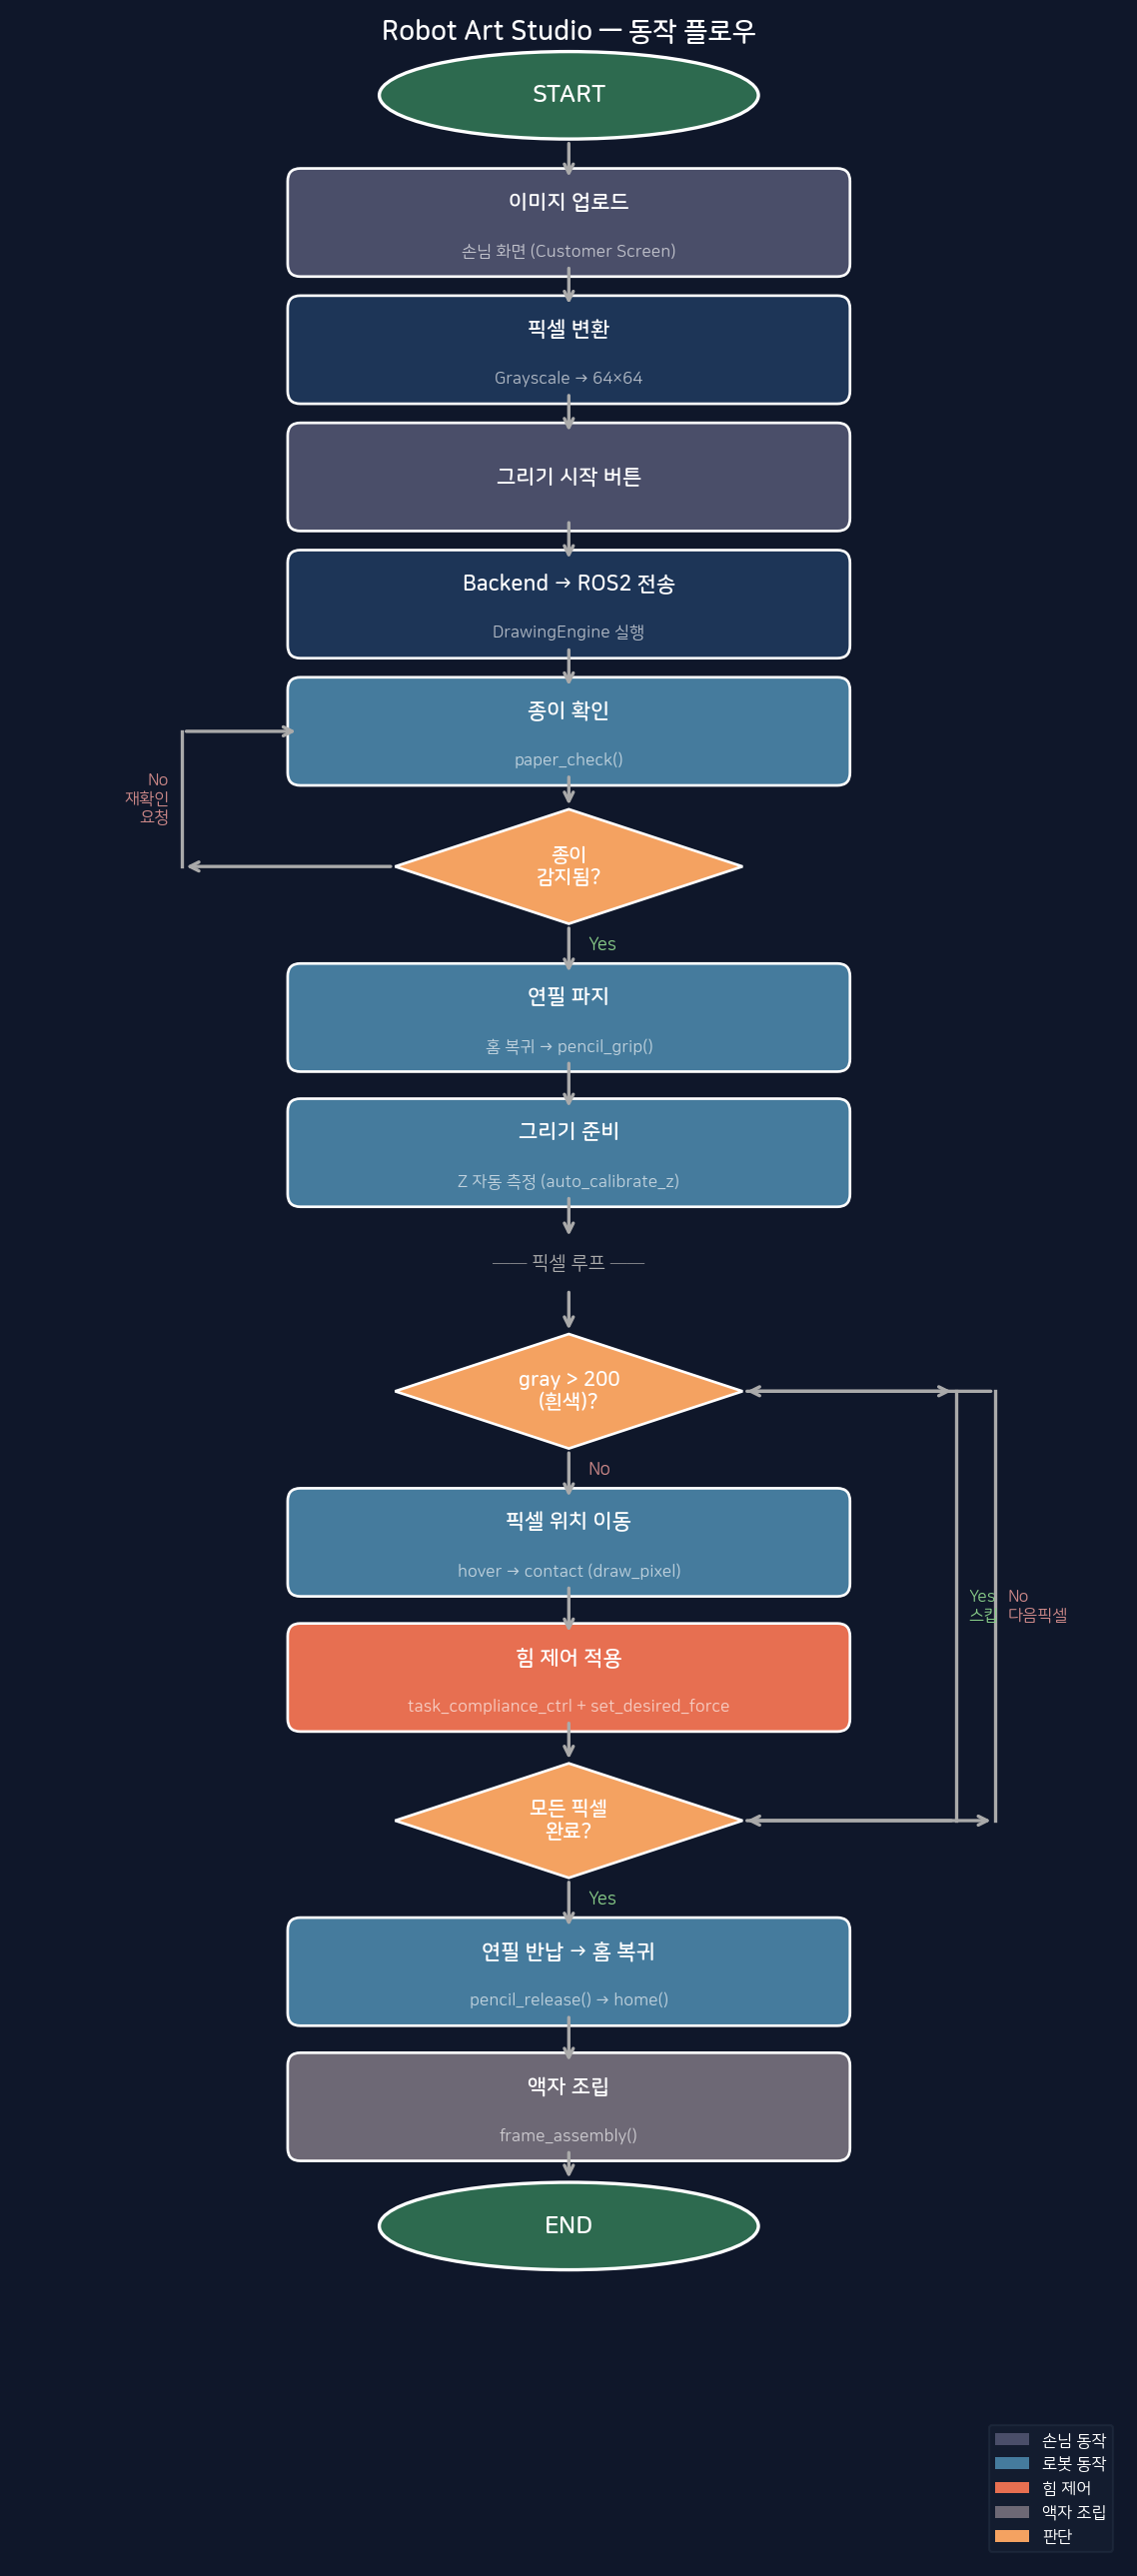
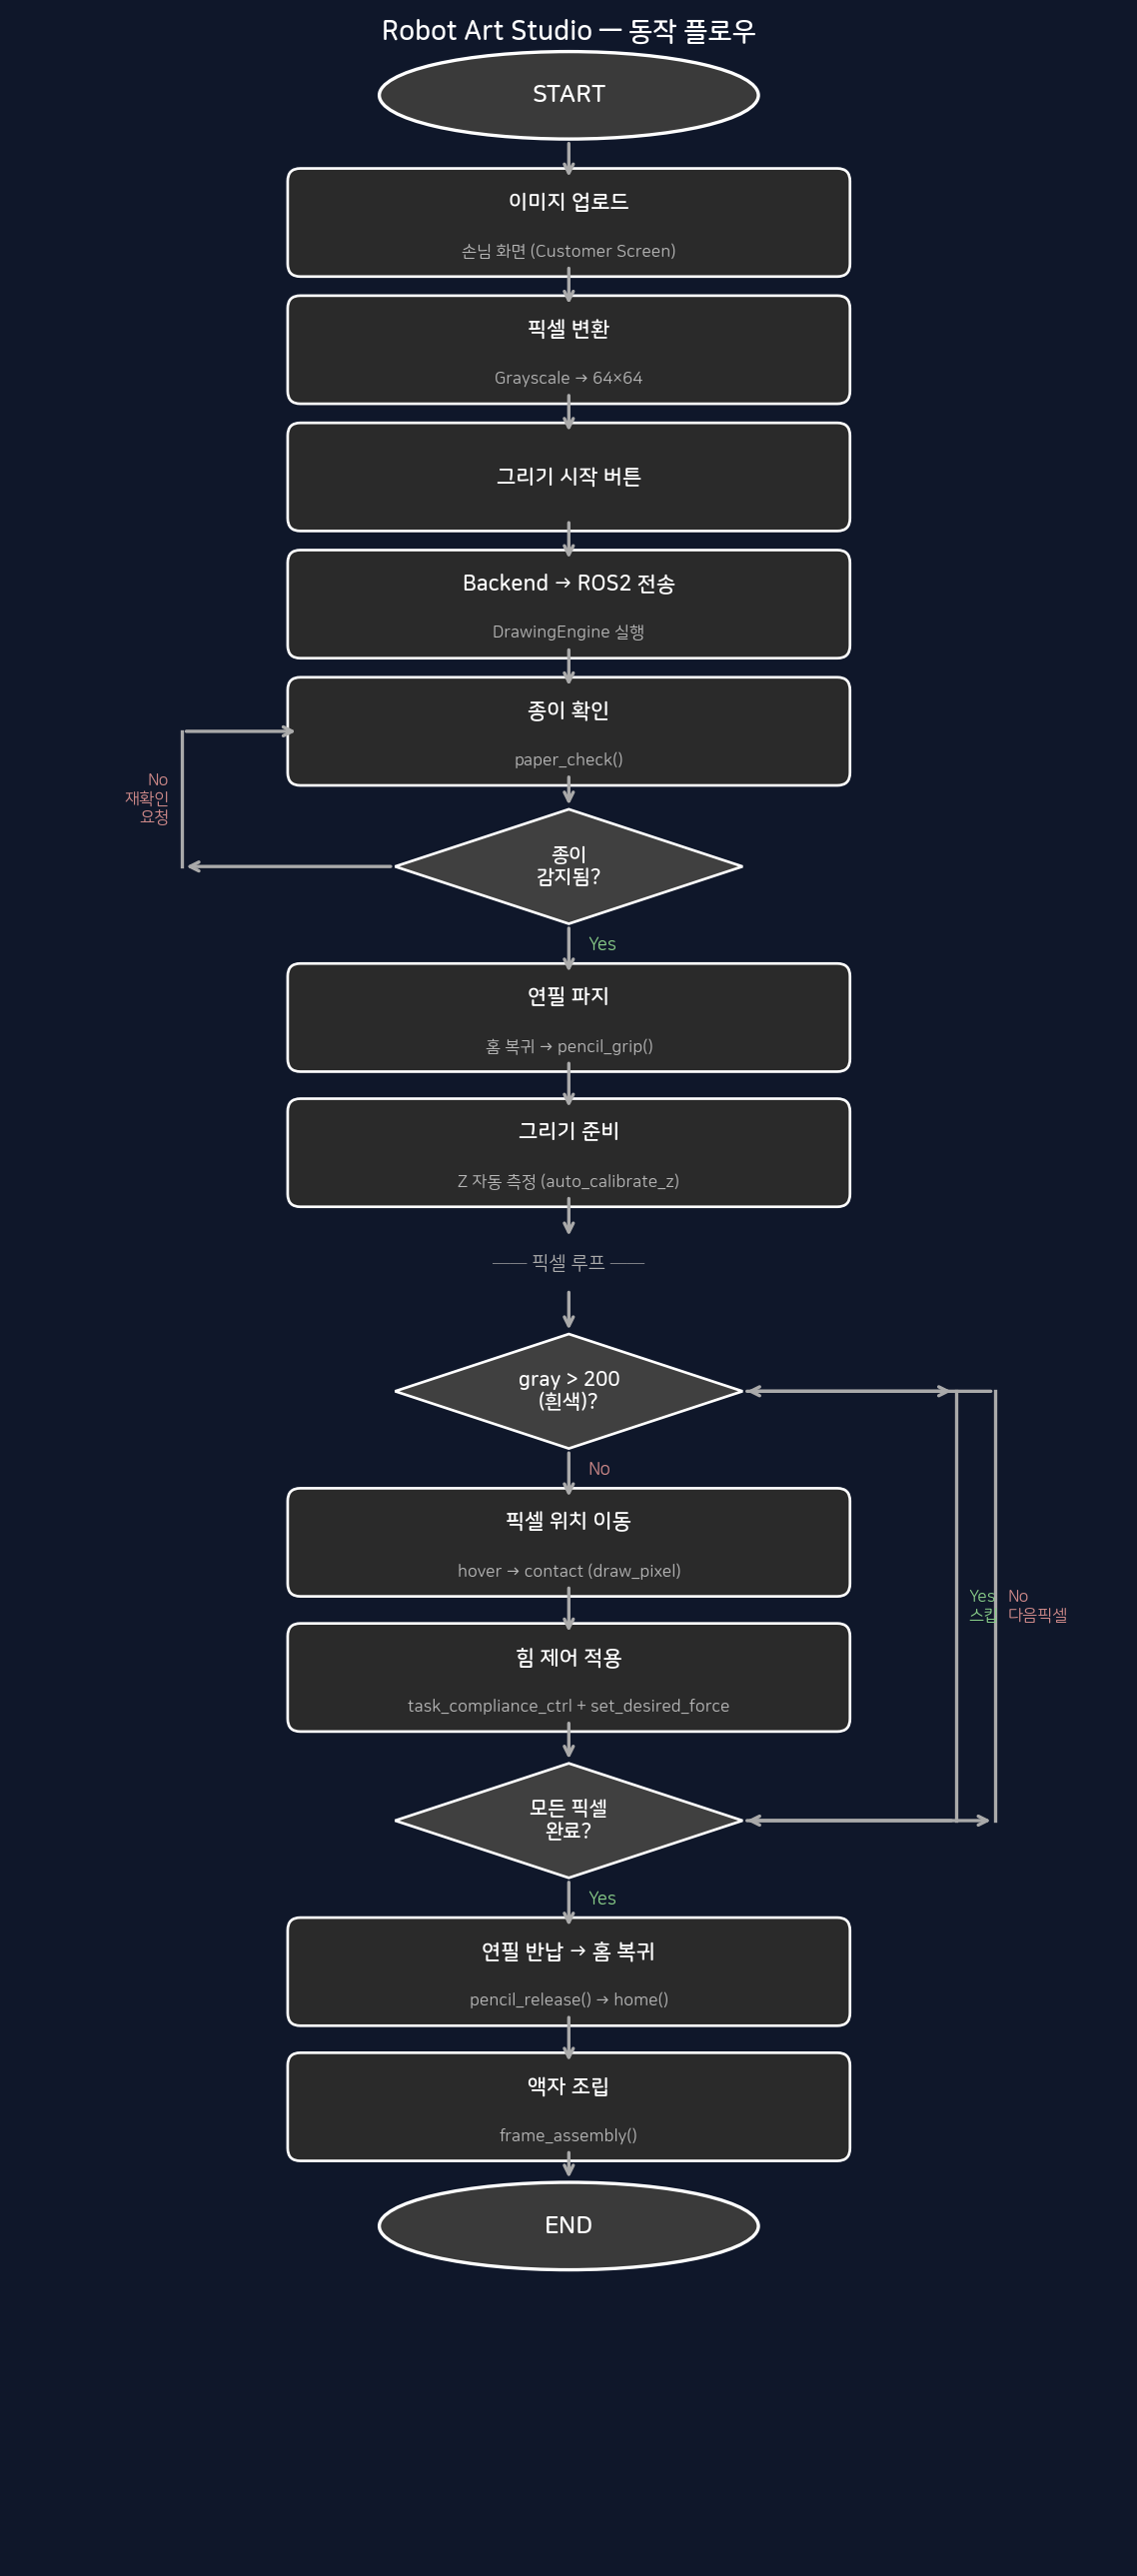
docs: 조이름·팀원 복원, 플로우차트 단색으로 변경

Changed region(s): [[0.246, 0.0, 0.7689, 0.4655], [0.246, 0.4965, 0.7689, 0.8999], [0.8612, 0.931, 0.9534, 0.993]]

diff --git a/README.md b/README.md
@@ -1,5 +1,8 @@
 # Robot Art Studio — M0609 픽셀 점묘화 자동 출력 시스템
 
+> **조 이름:** A-2 - Memory Catcher
+> **팀원:** 김형준 · 김재엽 · 김지훈 · 정태성
+
 ---
 
 ## 1. 🎨 시스템 설계 및 플로우 차트